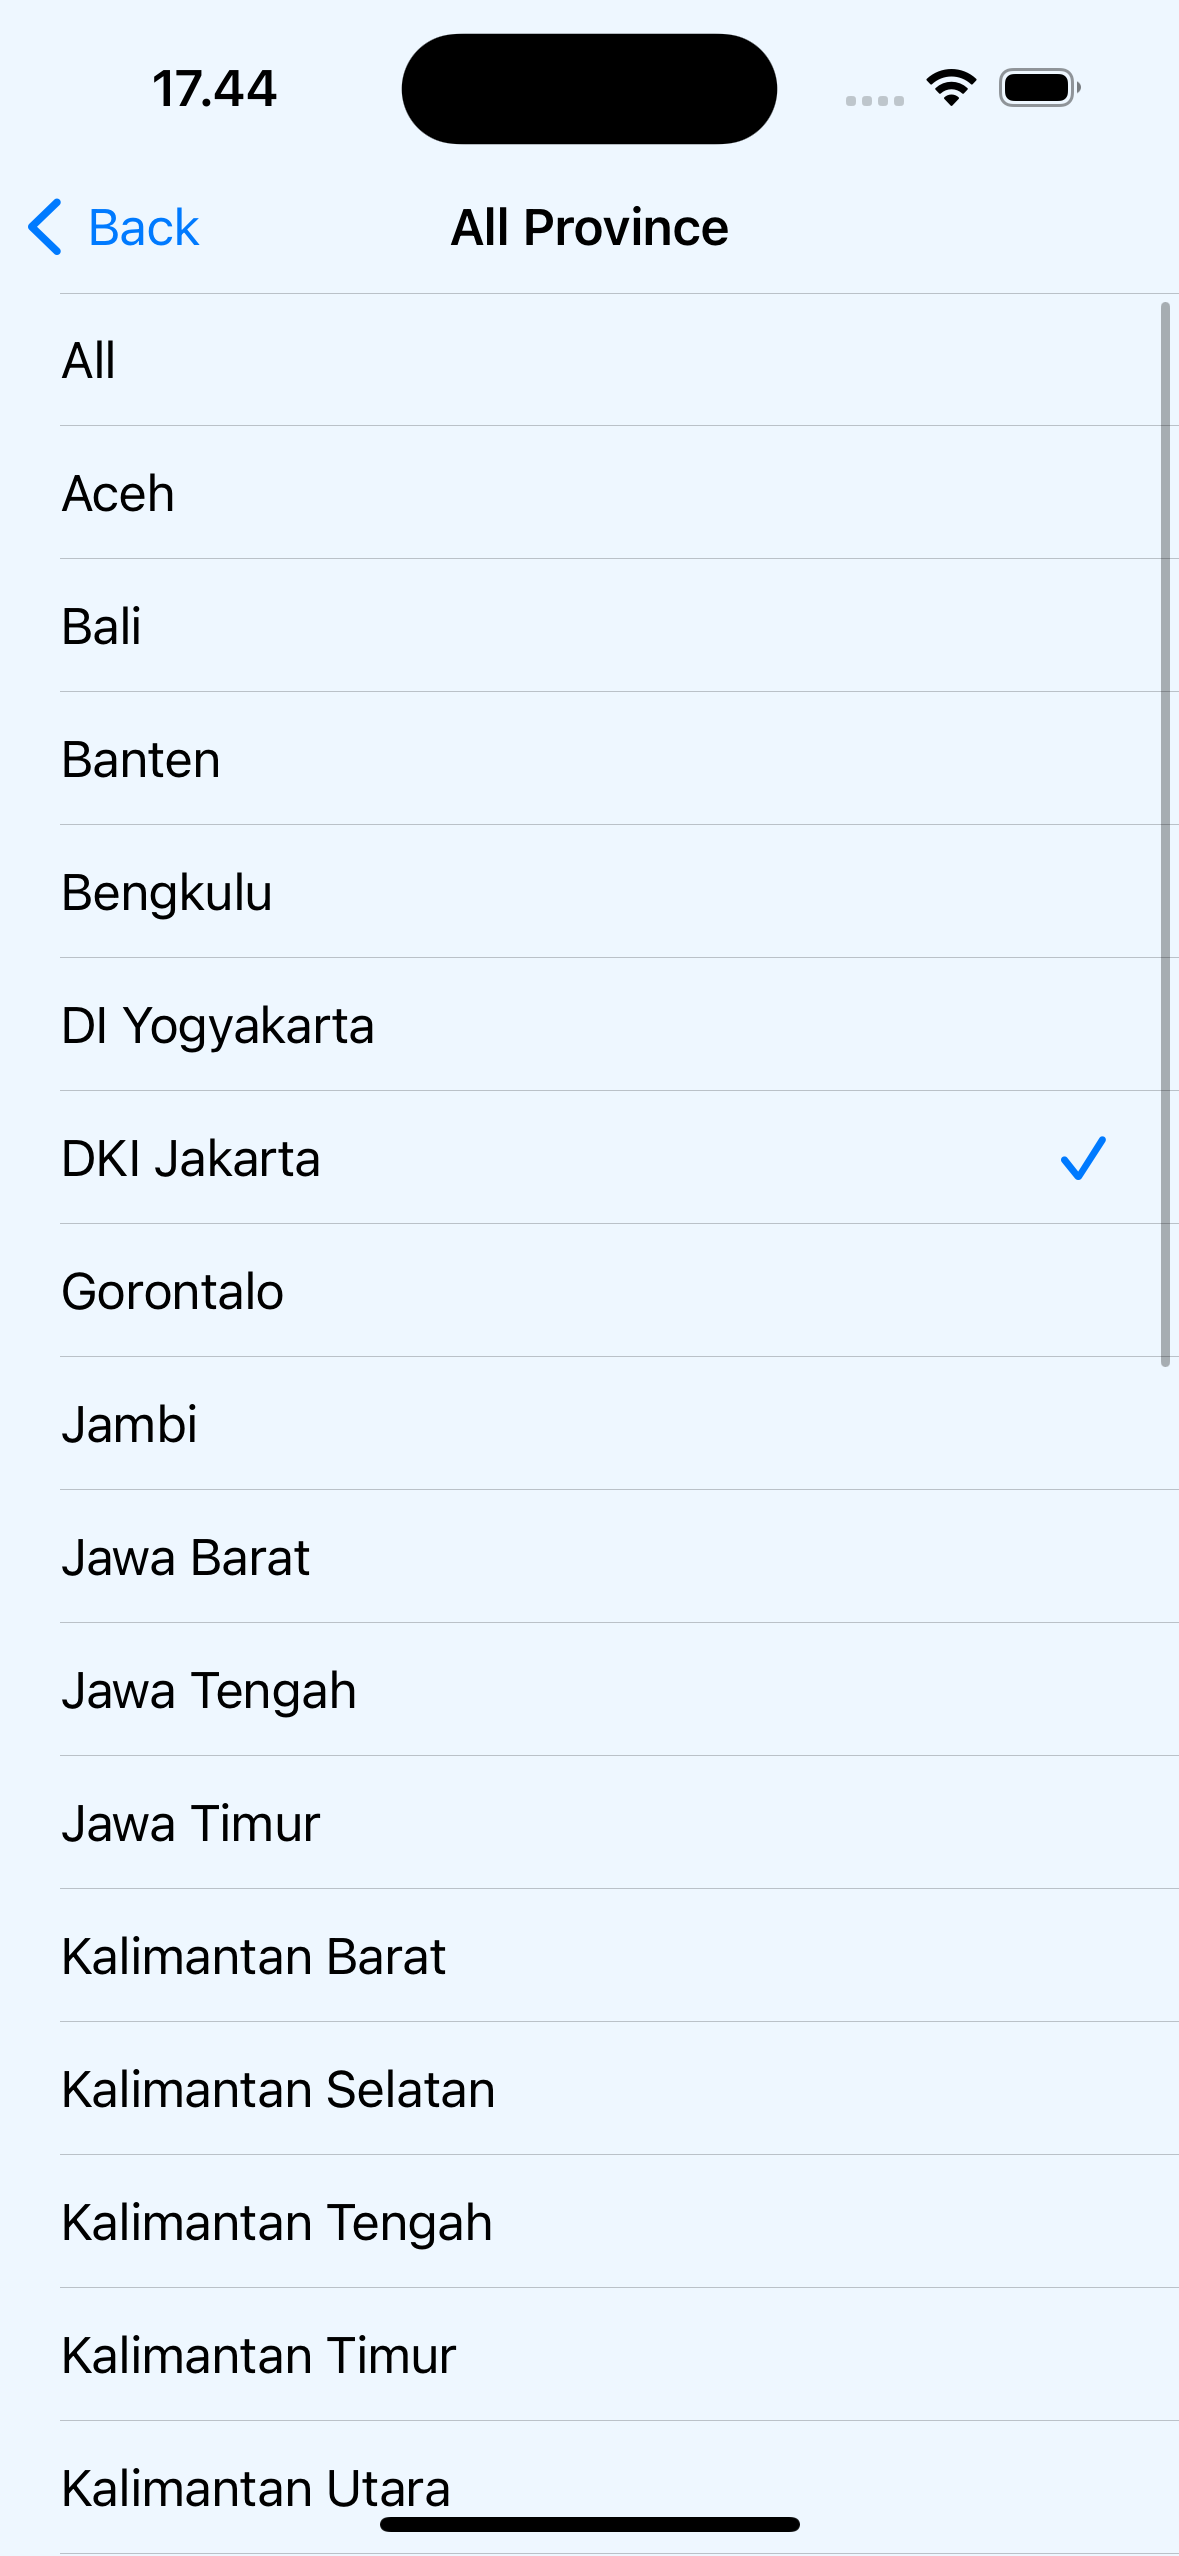
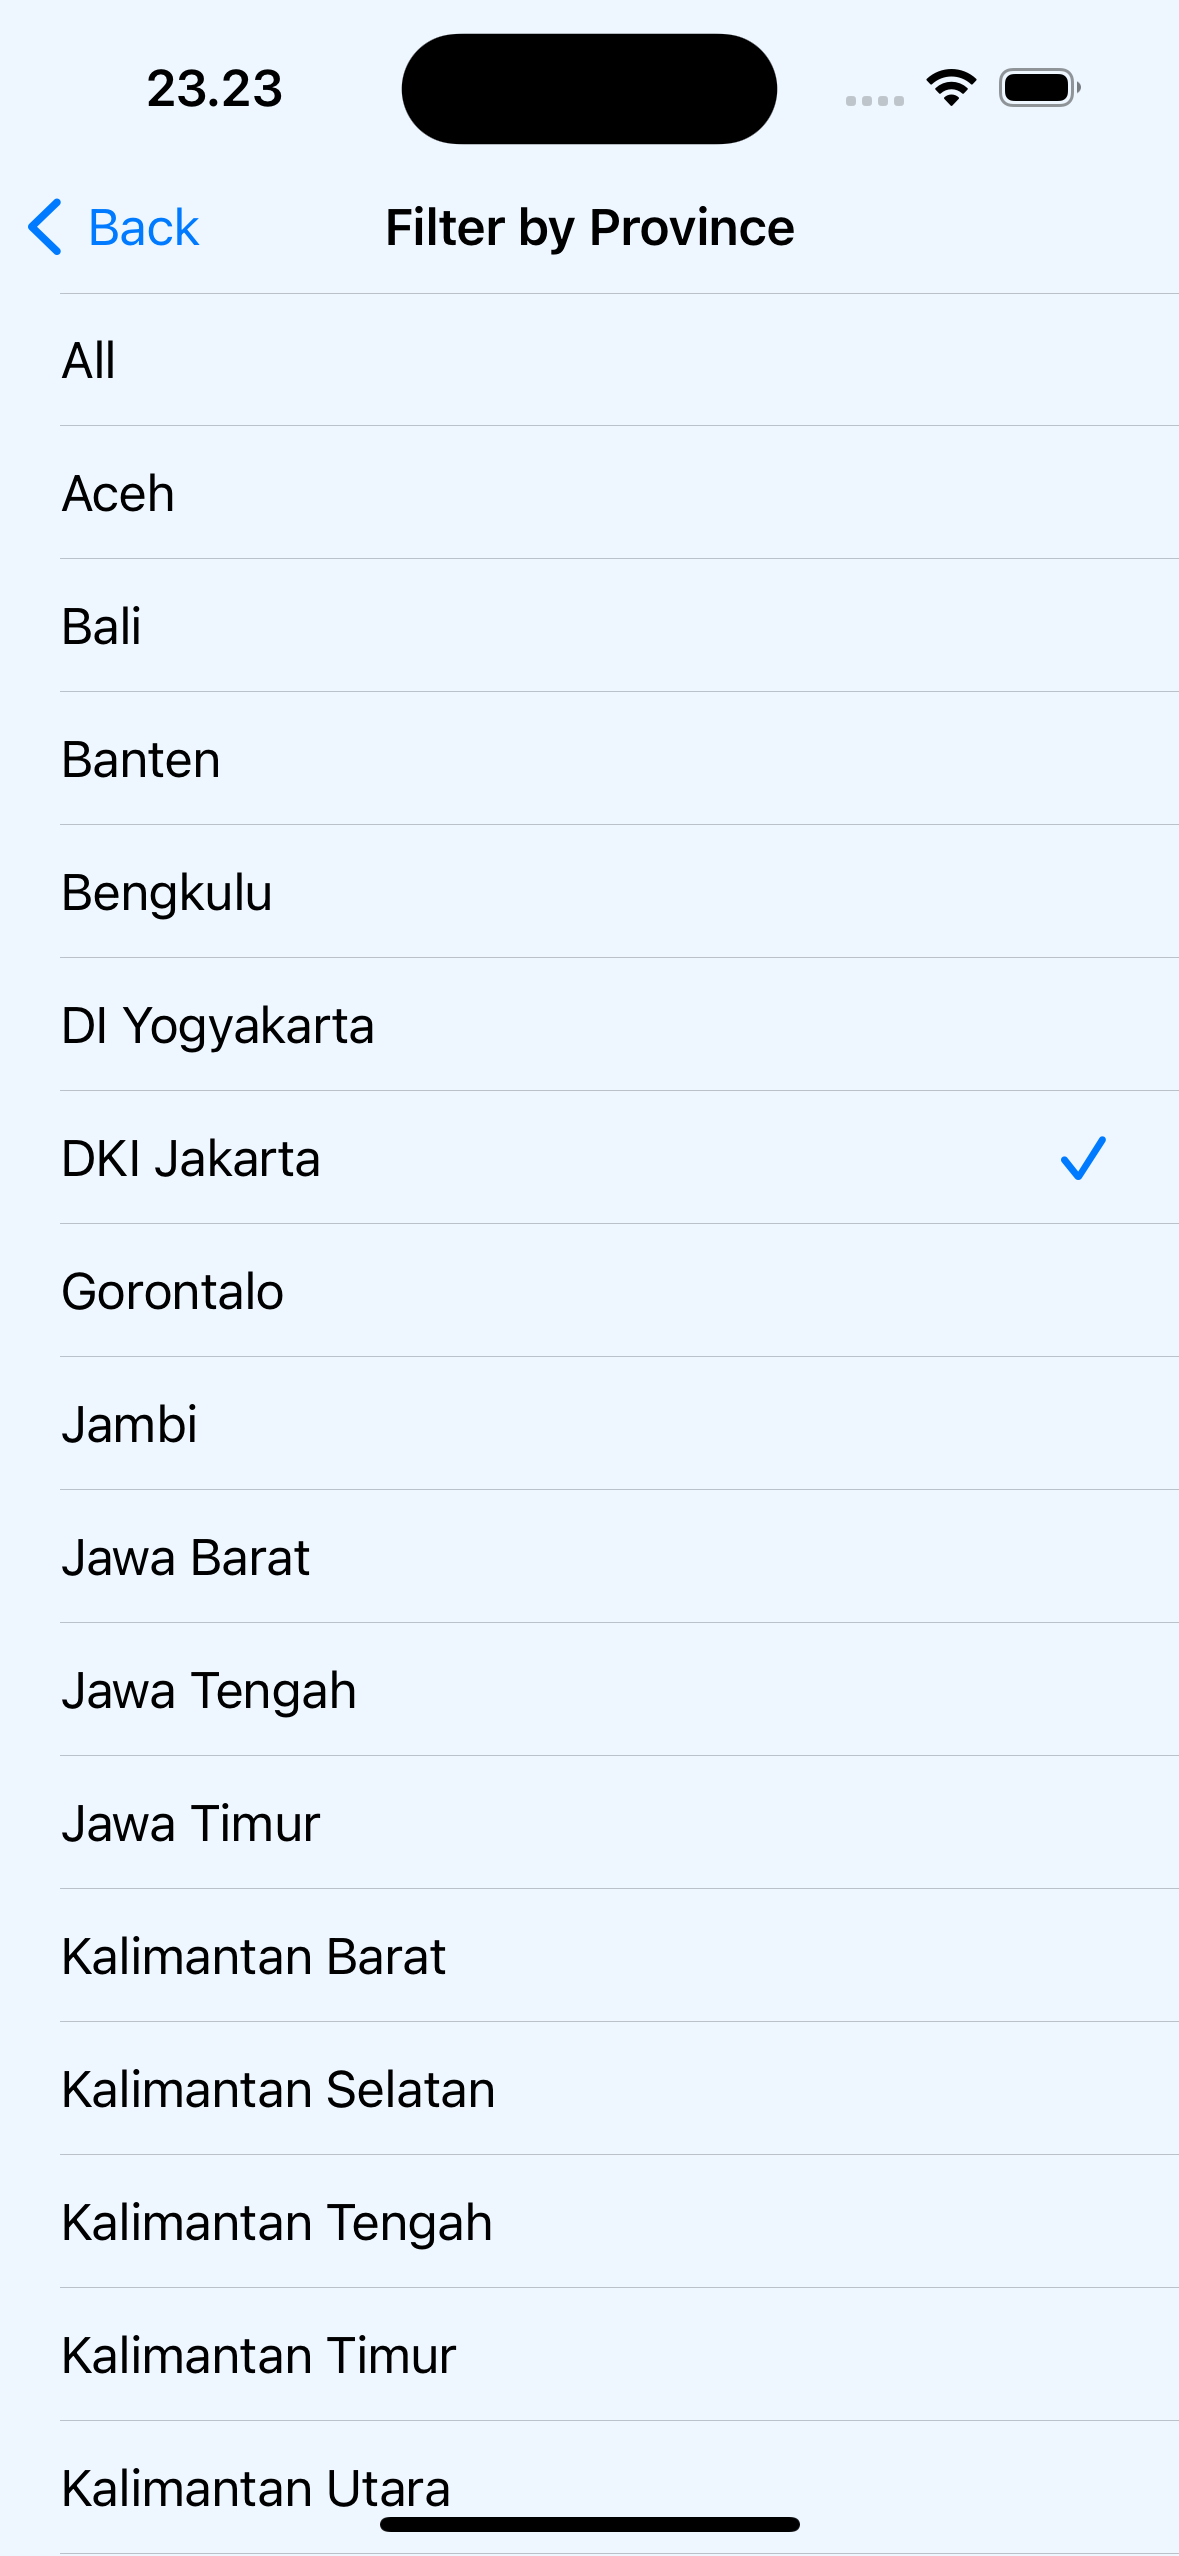
Change asset

Changed region(s): [[0.9771, 0.1236, 1.0, 0.5254], [0.3359, 0.0618, 0.6718, 0.0927], [0.1221, 0.0309, 0.2443, 0.0618]]

diff --git a/ExamHospitalNow/FilterProvinceTableViewController.swift b/ExamHospitalNow/FilterProvinceTableViewController.swift
@@ -27,7 +27,7 @@ class FilterProvinceTableViewController: UITableViewController {
     }
 
     func setupUI() {
-        self.title = "All Province"
+        self.title = "Filter by Province"
     }
     // MARK: - Table view data source
 
